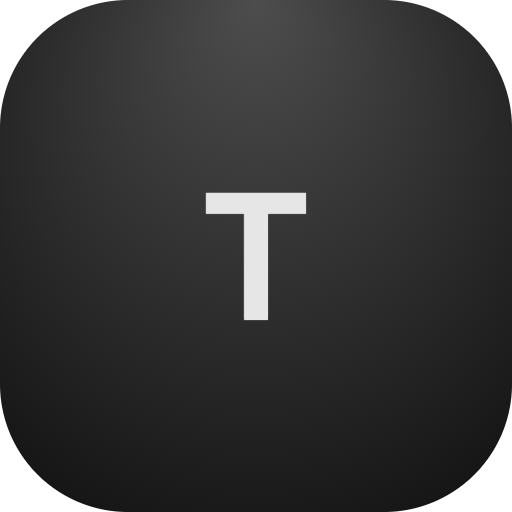
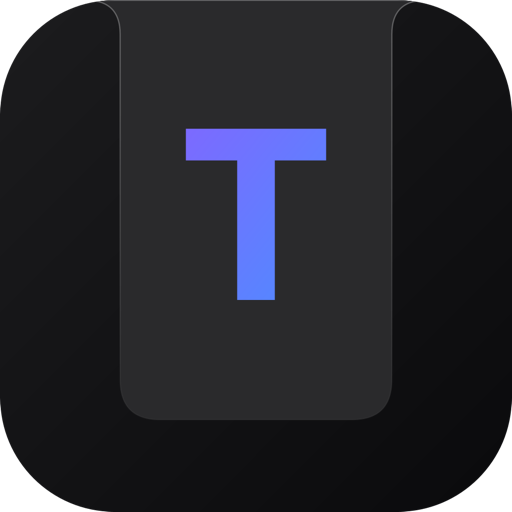
Update textream extension (#25268)
* Update textream extension

- remove dark extension icon
- update CHANGELOG for version 1.0.1 and replace extension icons
- Pull contributions
- update extension icons: replace light icon and remove dark icon

* Apply suggestion from @greptile-apps[bot]

* Update CHANGELOG.md and optimise images

---------

diff --git a/extensions/textream/CHANGELOG.md b/extensions/textream/CHANGELOG.md
@@ -1,5 +1,9 @@
 # Textream Changelog
 
+## [1.0.1] - 2026-02-10
+
+- Updated extension icon
+
 ## [1.0.0] - 2026-02-09
 
 ### Added
